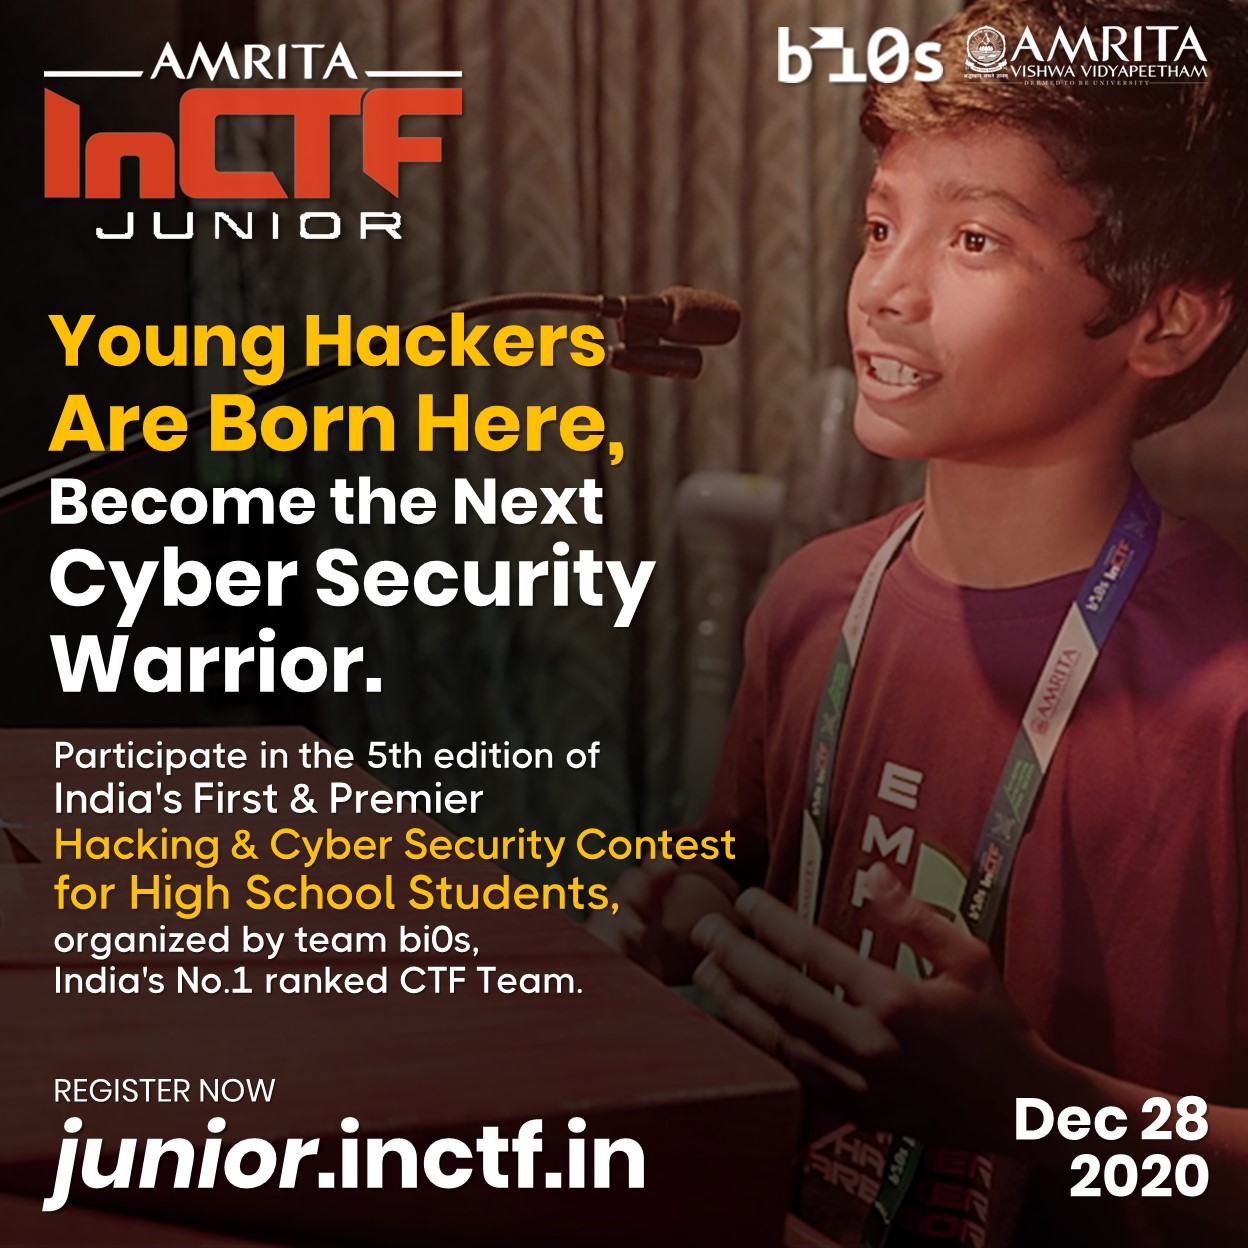
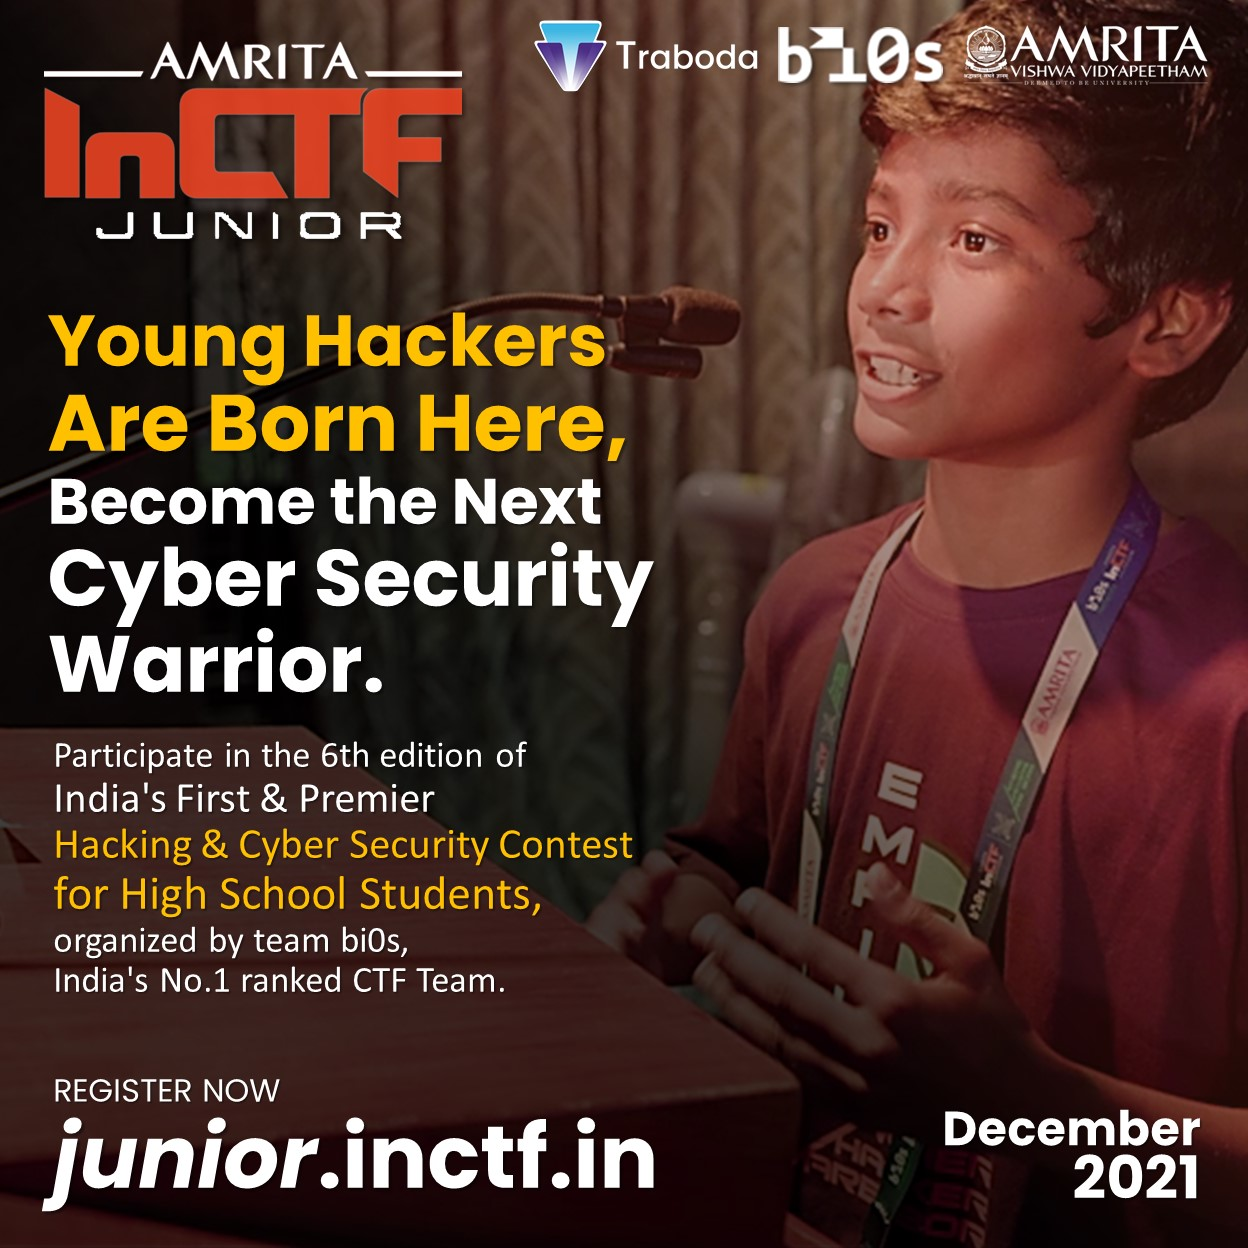
Update posters

diff --git a/src/components/PromotePage.jsx b/src/components/PromotePage.jsx
@@ -77,12 +77,13 @@ const PromotePage = () => {
         require('../assets/images/posters/p2.JPG'),
         require('../assets/images/posters/p3.JPG'),
         require('../assets/images/posters/p4.JPG'),
-        require('../assets/images/posters/1.jpg'),
-        require('../assets/images/posters/2.jpg'),
-        require('../assets/images/posters/3.jpg'),
-        require('../assets/images/posters/4.jpg'),
-        require('../assets/images/posters/5.jpg'),
-        require('../assets/images/posters/6.jpg'),
+        require('../assets/images/posters/p5.jpg'),
+        // require('../assets/images/posters/1.jpg'),
+        // require('../assets/images/posters/2.jpg'),
+        // require('../assets/images/posters/3.jpg'),
+        // require('../assets/images/posters/4.jpg'),
+        // require('../assets/images/posters/5.jpg'),
+        // require('../assets/images/posters/6.jpg'),
     ];
 
 
